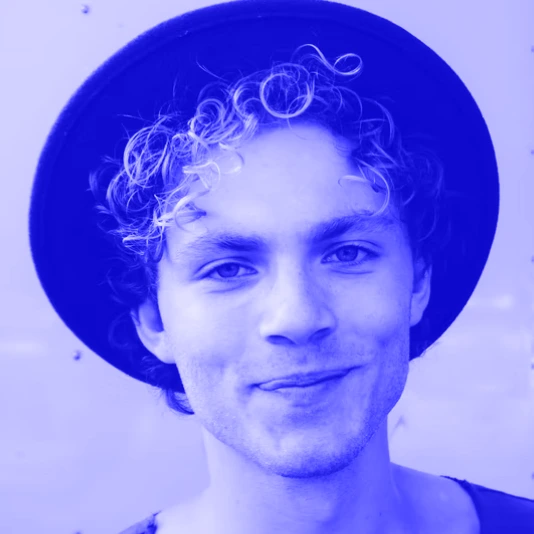
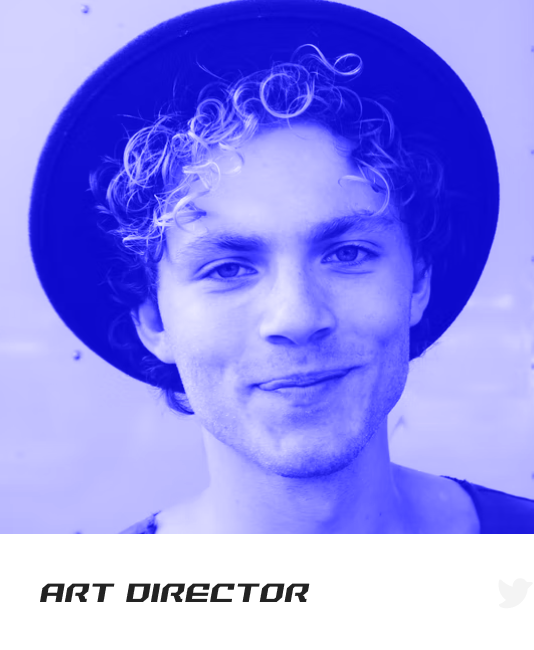
change image

diff --git a/index.html b/index.html
@@ -781,7 +781,7 @@
                             printing and typesetting industry.</p>
                     </div>
                     <div class="bg-black">
-                        <img src="assets/images/webp/team-image1.webp" alt="team1"
+                        <img src="assets/images/webp/team-image3.webp" alt="team1"
                             class="xl:max-w-[267px] lg:max-w-[231px] max-w-[168px]">
                         <p
                             class="font-Lexend-Deca text-white font-semibold text-lg uppercase leading-custom-2lg pt-5 pb-2">
@@ -1084,7 +1084,7 @@
     </section>
 
     <!-- FOOTER -->
-    <footer class="bg-[url(assets/images/webp/join-bg.webp)] bg-no-repeat bg-cover pb-[35px] -mt-1">
+    <footer class="bg-[url(assets/images/webp/join-bg.webp)] bg-no-repeat bg-cover pb-[55px] -mt-1">
         <div class="container">
             <div class="md:flex justify-between">
                 <div>
